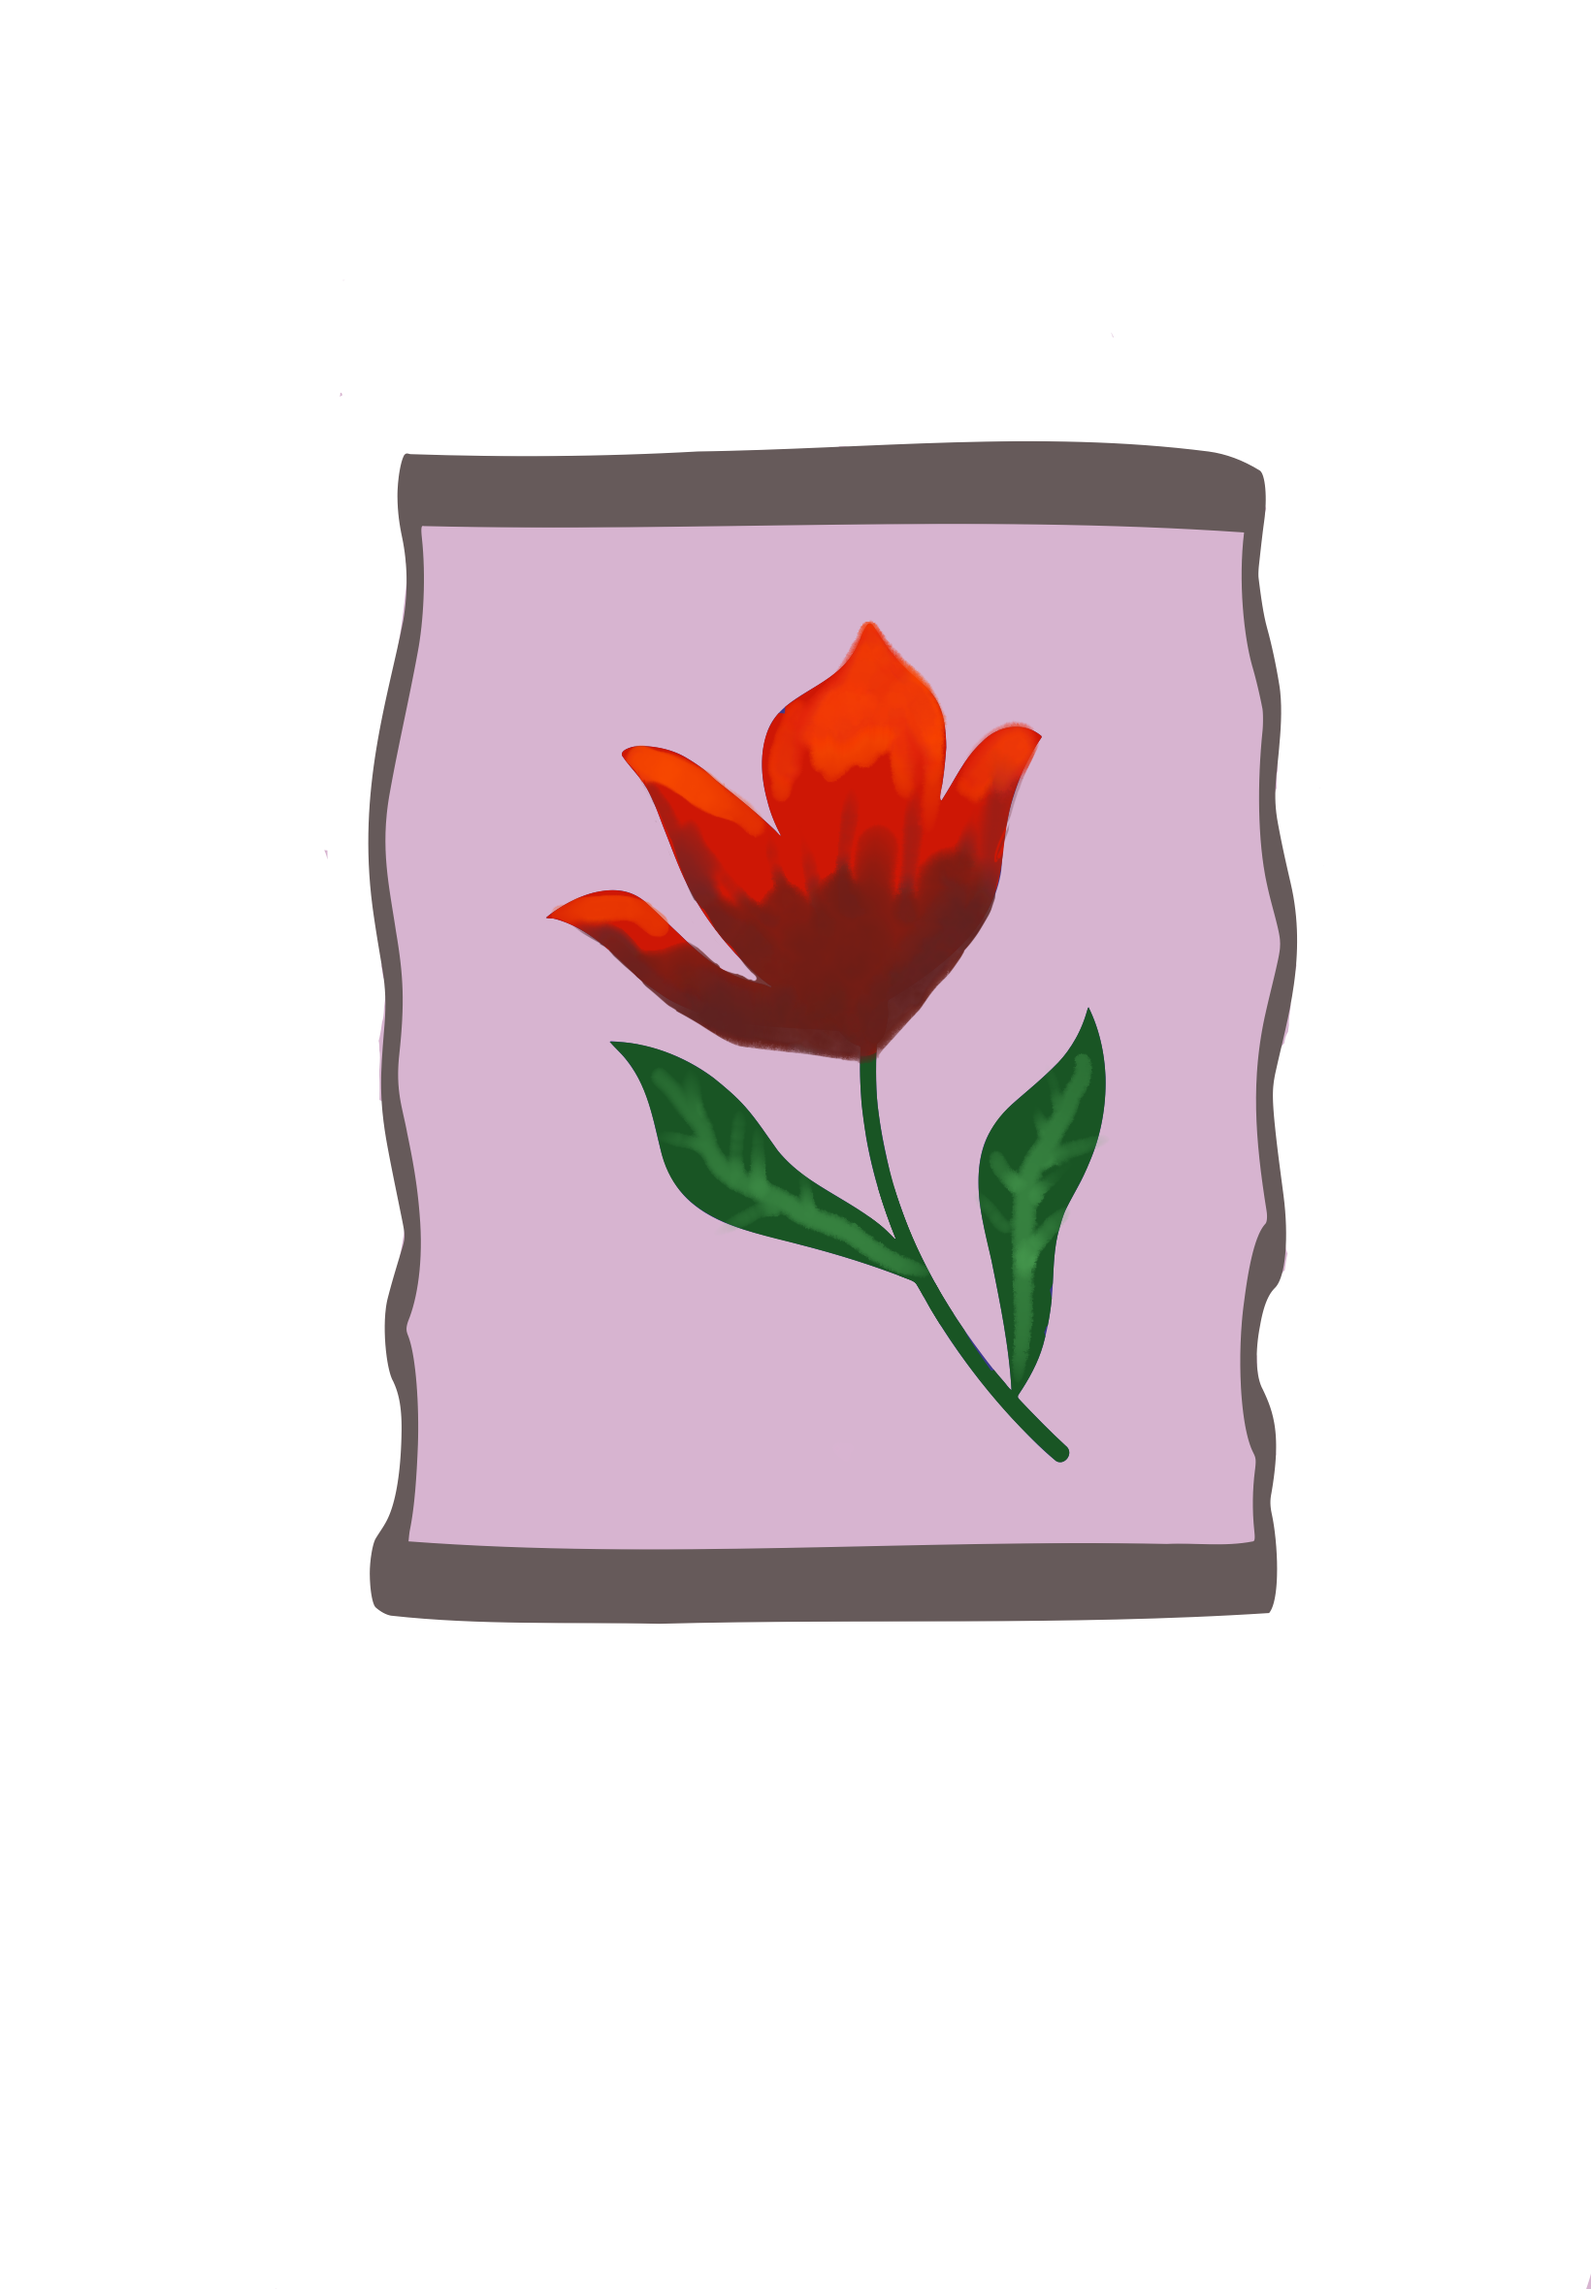
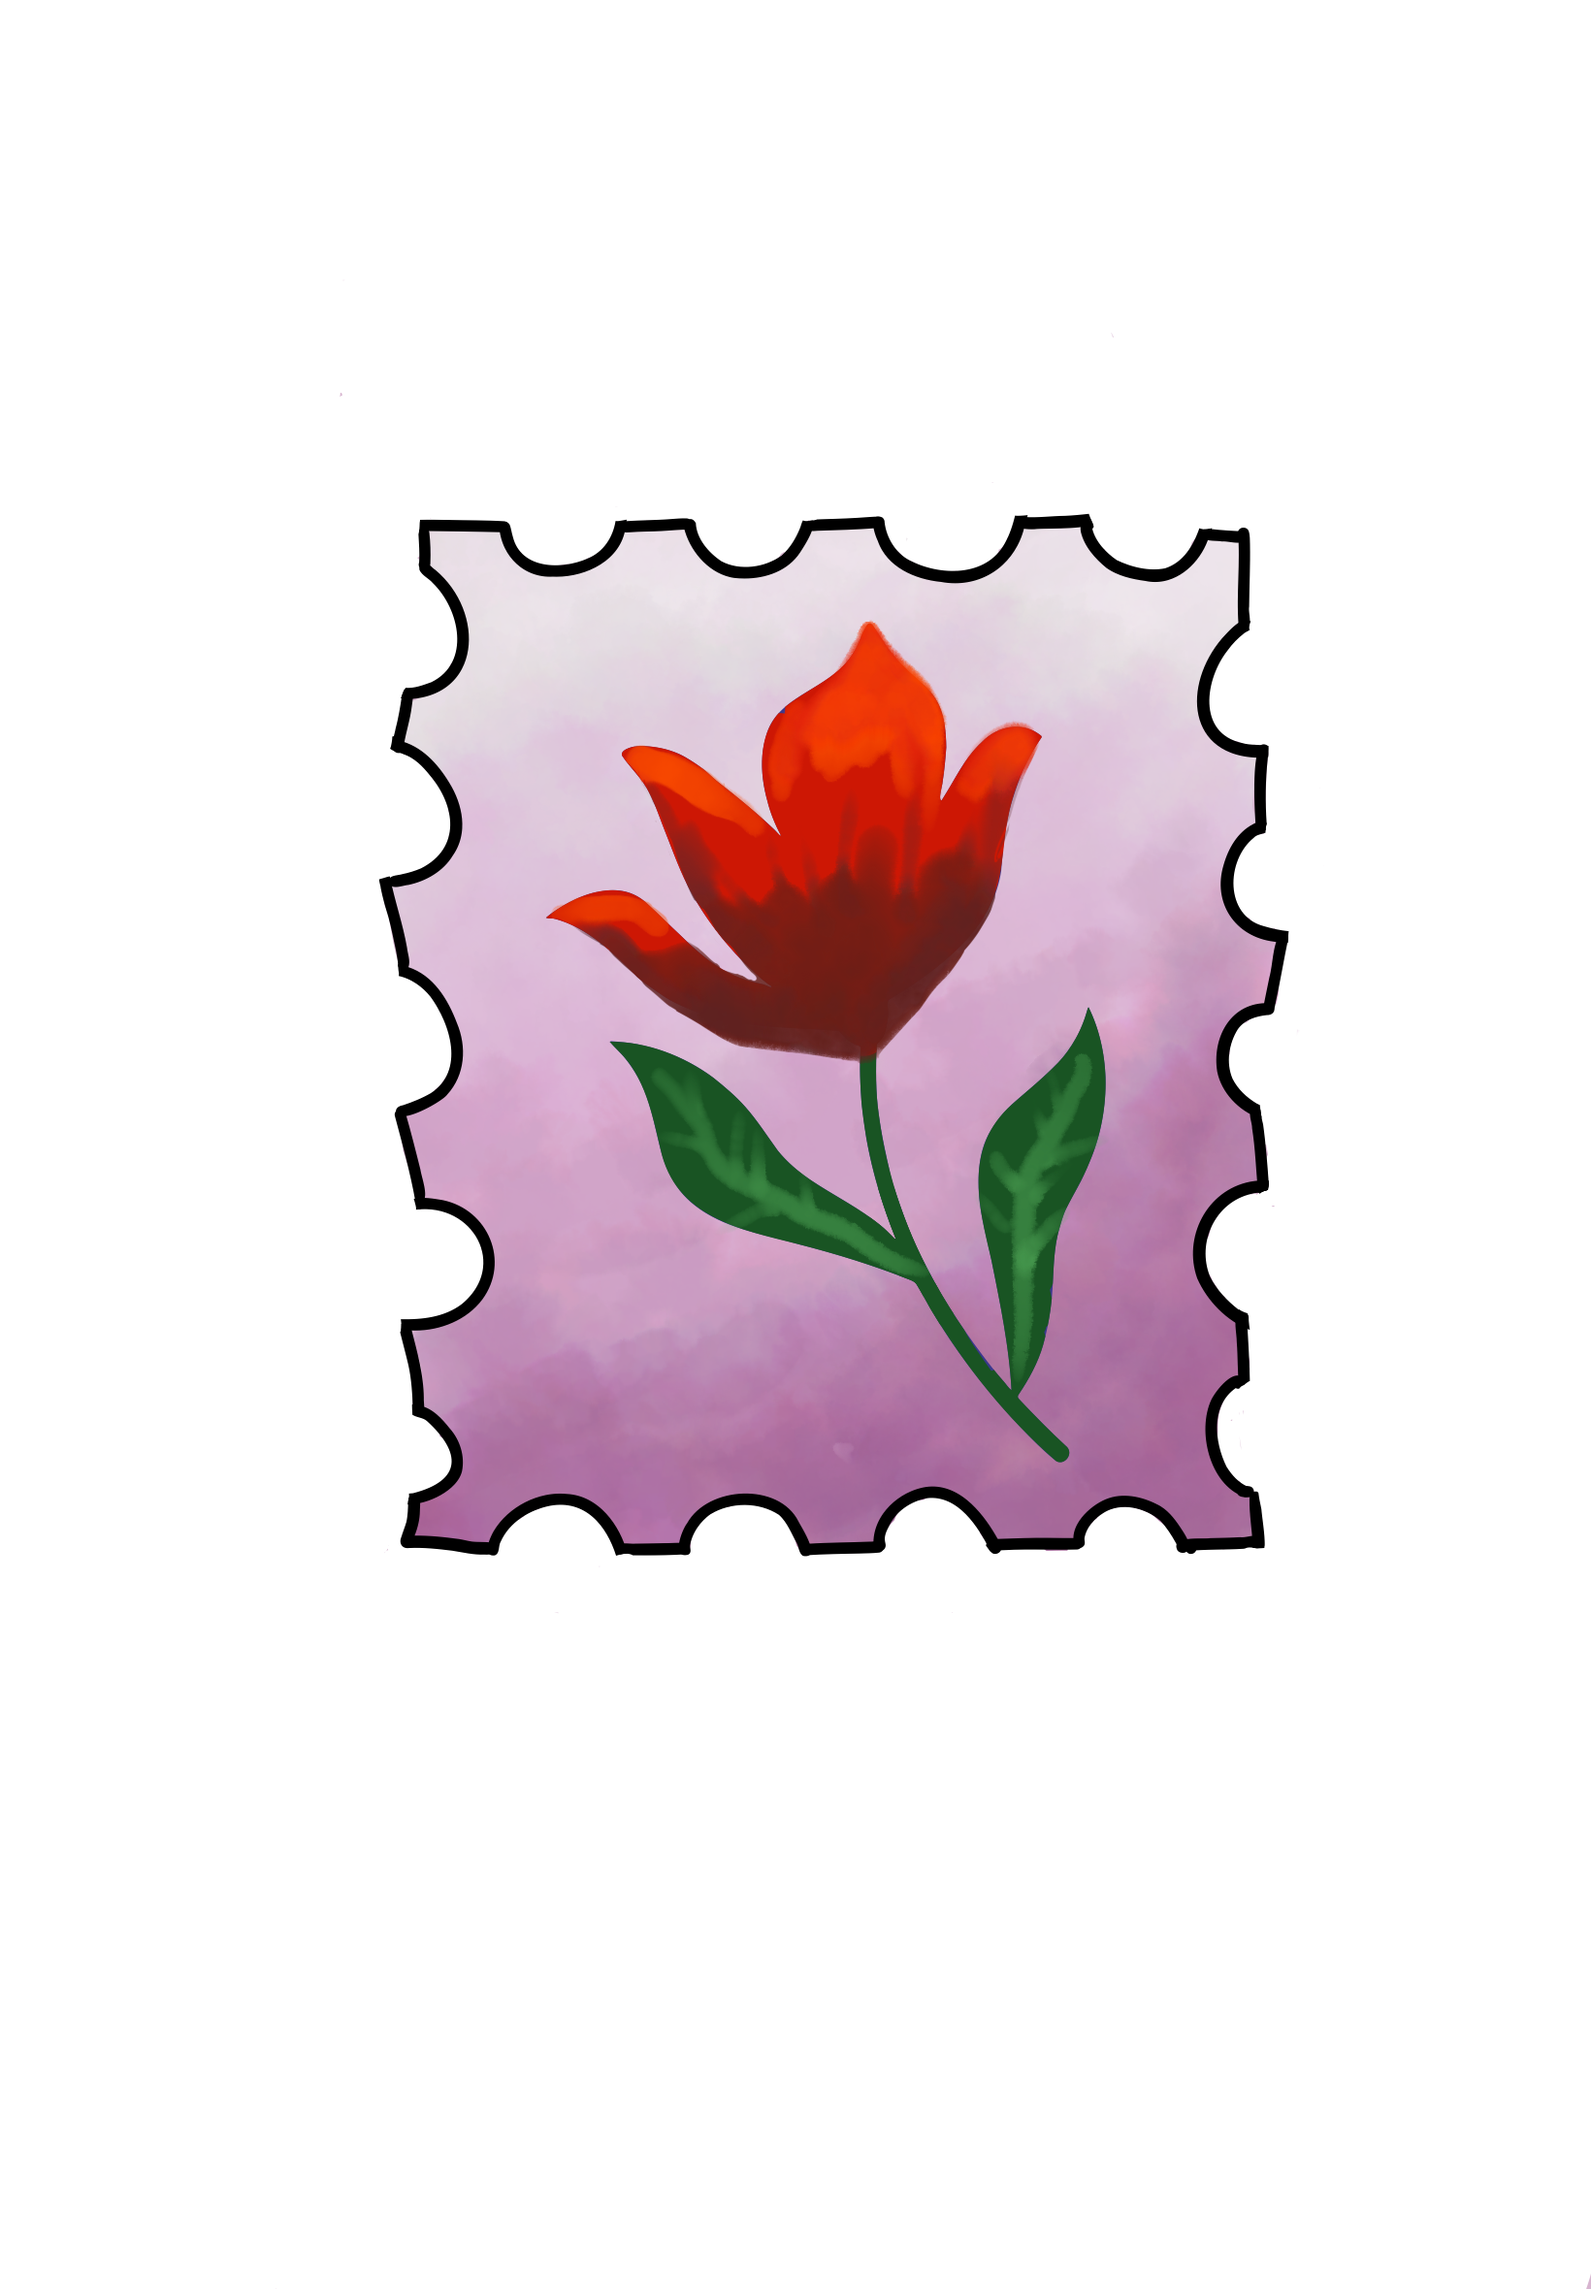
Add files via upload

Changed region(s): [[0.2177, 0.1856, 0.8396, 0.7114]]

diff --git a/contact.css b/contact.css
@@ -1,0 +1,110 @@
+* {
+    padding: 0;
+    margin: 0;
+    box-sizing: border-box;
+}
+body {
+  background-image: url(img/kiwihug-zGZYQQVmXw0-unsplash.jpg);
+	margin: auto;
+	font-family: "Volkhov", serif;
+	line-height: 1.75;
+	width: 100%;
+	padding:
+		env(safe-area-inset-top)
+		env(safe-area-inset-right)
+		env(safe-area-inset-bottom)
+		env(safe-area-inset-left);
+}
+
+header button {
+    font-size: 16px;
+    text-decoration: none;
+    padding: 5px;
+    margin: 5px;
+    background-color: #fff7f9;
+    border: none;
+    border-radius: 50px;
+}
+button a {
+    text-decoration: none;
+}
+.contact-container {
+    height: 100vh;
+    display: flex;
+    align-items: center;
+    justify-content: space-evenly;
+}
+.contact {
+    display: flex;
+    flex-direction: column;
+    align-items: start;
+    gap: 20px;
+}
+.contact-title h2 {
+    font-weight: 600;
+    color: rgb(91, 72, 72);
+    font-size: 40px;
+    margin-bottom: 5px;
+}
+.contact-title hr {
+    border: none;
+    width: 120px;
+    height: 5px;
+    background-color: rgb(91, 72, 72);
+    border-radius: 10px;
+    margin-bottom: 20px;
+}
+.contact-inputs {
+    width: 400px;
+    height: 50px;
+    border: none;
+    outline: none;
+    padding-left: 25px;
+    font-weight: 500;
+    color: #666;
+    border-radius: 50px;
+}
+.contact textarea {
+    height: 140px;
+    padding-top: 15px;
+    border-radius: 20px;
+}
+.contact-inputs:focus {
+    border: 2px solid #666;
+}
+.contact-inputs::placeholder {
+    color: #a9a9a9;
+}
+.contact button {
+    display: flex;
+    align-items: center;
+    padding: 15px 30px;
+    font-size: 16px;
+    color: #fff;
+    gap: 10px;
+    border: none;
+    border-radius: 50px;
+    background: linear-gradient(180deg, rgb(91, 72, 72),#fa6d86);
+}
+img {
+    width: 100px;
+    height: 120px;
+    position: relative;
+    top: 50px;
+}
+.stamp {
+    width: 120px;
+    height: 150px;
+    position: relative;
+    top: 68px;
+    right: -80px;
+}
+@media (min-width:786px) {
+  body {
+    background-image: url(img/lines-8370539_1280.jpg);
+    padding: 10px 60px;
+  }
+  .outer-container {
+    background-image: url(img/kiwihug-zGZYQQVmXw0-unsplash.jpg);
+  }
+}

diff --git a/menu.html b/menu.html
@@ -42,7 +42,8 @@
             <h2>Custom Offerings</h2>
             <h3>Click product image for details</h3>
         </div>
-
+        
+<section class="flip-card-section">
         <div class="flipCard"> 
             <div class="card" onclick="this.classList.toggle('flipped');"> 
                 <div class="side front">Product with Image</div> 
@@ -63,7 +64,9 @@
                 <div class="side back">Styles<br/>Explanation</div> 
             </div> 
         </div>
+        </section>
 
+<section class="flip-card-section">
         <div class="flipCard"> 
             <div class="card" onclick="this.classList.toggle('flipped');"> 
                 <div class="side front">Product with Image</div> 
@@ -77,6 +80,14 @@
                 <div class="side back">Styles<br/>Explanation</div> 
             </div> 
         </div>
+
+            <div class="flipCard"> 
+            <div class="card" onclick="this.classList.toggle('flipped');"> 
+                <div class="side front">Product with Image</div> 
+                <div class="side back">Styles<br/>Explanation</div> 
+            </div> 
+        </div>
+        </section>
  </main>
 
 

diff --git a/contact.html b/contact.html
@@ -1,0 +1,29 @@
+<!DOCTYPE html>
+<html lang="en">
+<head>
+    <meta charset="UTF-8">
+    <meta name="viewport" content="width=device-width, initial-scale=1.0">
+    <title>Blondie's Aesthetics Contact From</title>
+    <link rel="stylesheet" href="contact.css">
+</head>
+<body>
+    <div class="outer-container">
+    <header>
+        <button><a href="index.html">&larr;Krizzia’s's Krafts</a></button>
+    </header>
+    <div class="contact-container">
+        <form action="" class="contact">
+            <div class="contact-title">
+                <h2>Get in Touch<img src="img/Stamp.png" class="stamp"></h2>
+                
+                <hr>
+            </div>
+            <input type="text" name="name" placeholder="Your Name" class="contact-inputs" required>
+            <input type="email" name="email" placeholder="Your Email" class="contact-inputs" required>
+            <textarea name="message" placeholder="Your Message" class="contact-inputs" required></textarea>
+            <button type="submit">Submit</button>
+        </form>
+    </div>
+    </div>
+</body>
+</html>

diff --git a/main.css b/main.css
@@ -9,7 +9,7 @@ html {
 	text-size-adjust: 100%;
 }
 body {
-    background-image: url(img/kiwihug-zGZYQQVmXw0-unsplash.jpg);
+  background-image: url(img/kiwihug-zGZYQQVmXw0-unsplash.jpg);
 	margin: auto;
 	font-family: "Volkhov", serif;
 	line-height: 1.75;
@@ -685,6 +685,14 @@ h3 img {
       margin: auto;
       font-size: 20px;
     }
+    .image-gallery {
+      display: flex;
+      flex-direction: row;
+    }
+    .flip-card-section {
+      display: flex;
+      flex-direction: row;
+    }
 }
 @media (min-width:1001px) {
     body {
@@ -741,5 +749,13 @@ h3 img {
     .main-about p img {
       height: 250px;
       margin: 10px;
+    }
+    .image-gallery {
+      display: flex;
+      flex-direction: row;
+    }
+    .flip-card-section {
+      display: flex;
+      flex-direction: row;
     }
 }
